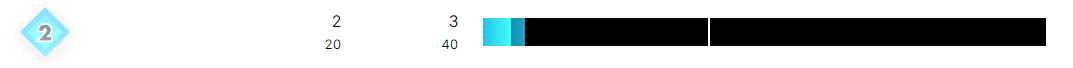
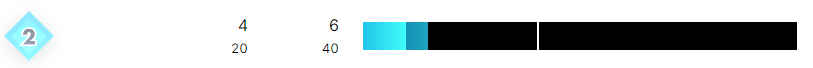
modified README.md

diff --git a/README.md b/README.md
@@ -18,7 +18,7 @@
 
 - class 1 : 2020-08-11 달성.
   - ![](./img/class_1_achieved.png)
-- class 2 : on progress - 3/40 completed.
+- class 2 : on progress - 4/40 completed.
   - ![](./img/level_2_in_progress.png)
 
 
